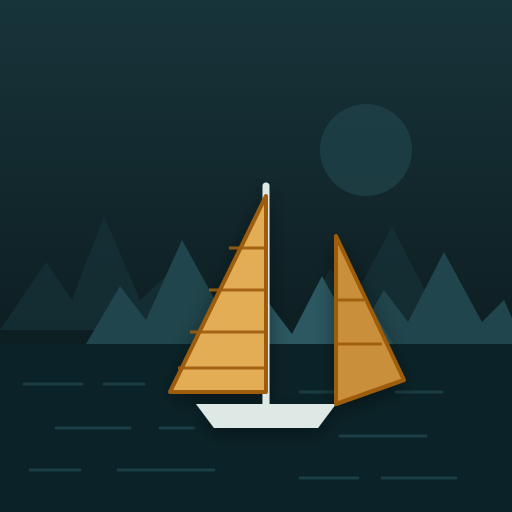
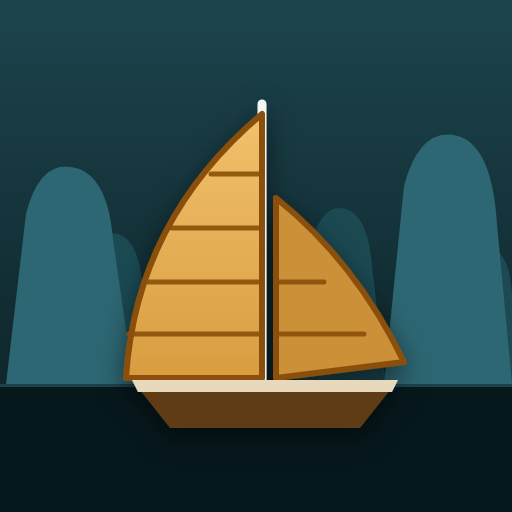
Un'icona dedicata al Vietnam, che regge anche a 44 px
L'icona precedente era una scena: luna, onde, e dieci montagnine triangolari
che a dimensione di schermata home sparivano, lasciando leggere solo «una
barca a vela». Rifatta su tre masse grandi — l'acqua scura, i faraglioni in
due toni e le vele ambra — e senza tutto il resto.

I faraglioni ora hanno i fianchi quasi verticali e la cima arrotondata, in
gruppo: è quello che distingue la baia di Ha Long da una catena alpina. Lo
scafo è legno scuro con la falchetta chiara invece di un blocco bianco, così
l'unico chiaro resta l'albero e le vele portano tutto il peso.

La versione maskable è la stessa scena al 76% attorno al centro, con cielo e
acqua a tutto bordo: provata nelle tre forme di ritaglio di Android — cerchio,
squircle e quadrotto — e la giunca resta sempre dentro il cerchio di
sicurezza.

tools/build-icone.mjs ora include la cartella del Vietnam fra quelle che
rigenera senza argomenti: prima andava passata a mano e si rischiava di
ricostruire tutto meno questa.

prova:pwa vietnam passata, PWA ricostruita. Guardate le due tavole di prova
in chiaro e scuro, da 220 a 44 px.

Claude-Session: https://claude.ai/code/session_012d68W7gkQSYS1ssLpCzct3

diff --git a/viaggi/2026-11-vietnam/README.md b/viaggi/2026-11-vietnam/README.md
@@ -133,6 +133,38 @@ piano. A tre ore dalla partenza la striscia diventa ambra.
 Gli stessi tredici movimenti sono anche sul Google Calendar di Davide, con il
 prefisso `VN · ` per trovarli e cancellarli in blocco.
 
+### Metterla sulla home
+
+L'app installabile sta su <https://davide88770.github.io/Davide/vietnam/>.
+
+- **iPhone** — aprirla in **Safari** (non Chrome: l’installazione da Chrome su
+  iOS non la fa), poi Condividi → *Aggiungi a Home*.
+- **Android** — Chrome propone *Installa app* da solo; altrimenti menu ⋮ →
+  *Aggiungi a schermata Home*.
+
+Sulla home compare come **Vietnam**, si apre a tutto schermo senza barra del
+browser e **funziona senza rete**: il service worker tiene in cache la pagina
+intera, che è un file solo. Gli aggiornamenti arrivano da soli alla
+riapertura, senza avvisi da confermare.
+
+### L'icona
+
+`icone/icona.svg` è la giunca della baia di Ha Long fra i faraglioni: due vele
+a stecche ambra, scafo di legno, guglie calcaree con i fianchi verticali e la
+cima arrotondata — non triangoli, che darebbero una catena alpina. Poche masse
+e grandi, perché a 44 px si legge la silhouette e non il dettaglio: niente
+luna, niente onde, niente montagnine di sfondo.
+
+`icone/icona-maskable.svg` è la stessa scena al 76%, centrata, con cielo e
+acqua fino al bordo: Android ritaglia l'icona con la forma del launcher
+(cerchio, goccia, squircle) e garantisce solo il cerchio centrale all'80%, quindi quello che viene tagliato è sfondo.
+
+I PNG si rigenerano dai due SVG con:
+
+```sh
+node tools/build-icone.mjs pwa/vietnam/icone
+```
+
 ### Verifica
 
 ```sh
